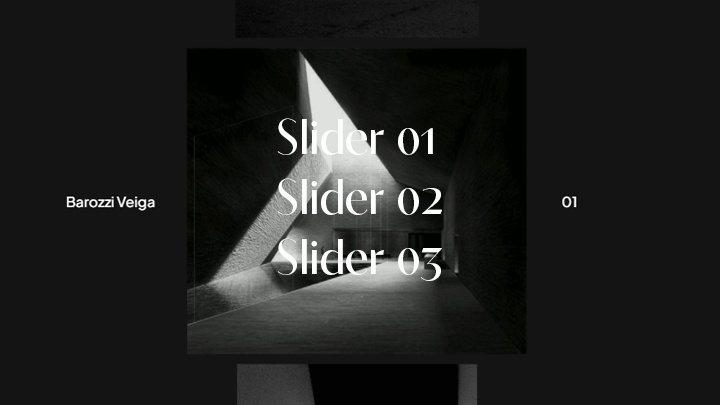
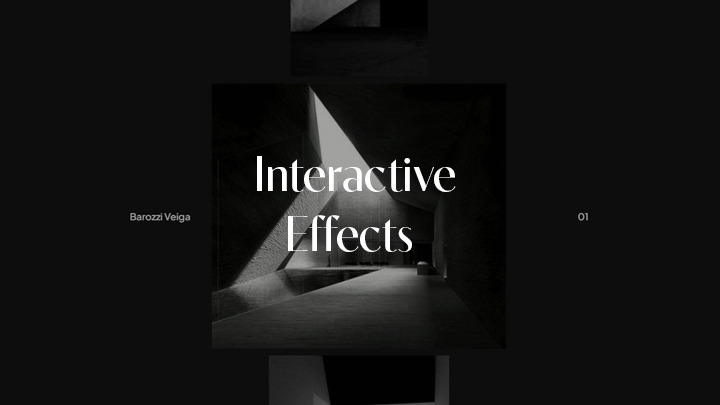
refactor: section을 div로 변경

diff --git a/lab/Image-slider/slider_02.tsx b/lab/Image-slider/slider_02.tsx
@@ -258,7 +258,7 @@ export default function Slider02() {
   }, []);
 
   return (
-    <section>
+    <div>
       <div className="slider02">
         <div className="slider02-wrap">
           <div className="slider02-hero">
@@ -270,7 +270,7 @@ export default function Slider02() {
           </div>
 
           {contents.map((item) => (
-            <section key={item.id} className="slider02-content">
+            <div key={item.id} className="slider02-content">
               {!item.reverse && (
                 <div className="slider02-content-img">
                   <img src={item.image} alt={item.title} />
@@ -287,7 +287,7 @@ export default function Slider02() {
                   <img src={item.image} alt={item.title} />
                 </div>
               )}
-            </section>
+            </div>
           ))}
         </div>
 
@@ -297,6 +297,6 @@ export default function Slider02() {
       </div>
 
       <div id="slider02-container"></div>
-    </section>
+    </div>
   );
 }

diff --git a/lab/Image-slider/slider_03.tsx b/lab/Image-slider/slider_03.tsx
@@ -260,7 +260,7 @@ function animateTextIn(container: Element) {
 }
 
 export default function Slider03() {
-  const sliderRef = useRef<HTMLElement>(null);
+  const sliderRef = useRef<HTMLDivElement>(null);
 
   useEffect(() => {
     gsap.registerPlugin(SplitText);
@@ -393,7 +393,7 @@ export default function Slider03() {
   }, []);
 
   return (
-    <section className="slider03" ref={sliderRef}>
+    <div className="slider03" ref={sliderRef}>
       <div className="slider03-content">
         <div className="slider03-title">
           <p>Blackwater '91</p>
@@ -406,6 +406,6 @@ export default function Slider03() {
           </p>
         </div>
       </div>
-    </section>
+    </div>
   );
 }

diff --git a/app/(main)/blog/[slug]/page.tsx b/app/(main)/blog/[slug]/page.tsx
@@ -54,13 +54,13 @@ export function generateMetadata({ params }) {
 
 export default function Blog({ params }) {
   let post = getBlogPosts().find((post) => post.slug === params.slug);
- // const count = 100;
+  // const count = 100;
   if (!post) {
     notFound();
   }
 
   return (
-    <section className="post">
+    <div className="post">
       <script
         type="application/ld+json"
         suppressHydrationWarning
@@ -99,6 +99,6 @@ export default function Blog({ params }) {
       <article className="post-body">
         <CustomMDX source={post.content} />
       </article>
-    </section>
+    </div>
   );
 }

diff --git a/app/(main)/archive/layout.tsx b/app/(main)/archive/layout.tsx
@@ -40,7 +40,7 @@ export default async function ArchiveLayout({
   );
 
   return (
-    <section className="post-section">
+    <div className="post-section">
       <ul className="post-gallery">
         {items.map(({ slug, title, image, tags, postUrl, year }) => (
           <li key={slug} className="post-item gallery">
@@ -56,6 +56,6 @@ export default async function ArchiveLayout({
         ))}
       </ul>
       {children}
-    </section>
+    </div>
   );
 }

diff --git a/app/components/header.tsx b/app/components/header.tsx
@@ -7,10 +7,10 @@ export function Header() {
     <header className="header">
       <Navbar />
       <nav className="header-nav">
-        <ThemeSwitcher />
-        {/* <Link className="header-nav-link" href="/about">
+        <Link className="header-nav-link" href="/about">
           about
-        </Link> */}
+        </Link>
+        <ThemeSwitcher />
       </nav>
     </header>
   );

diff --git a/lab/Image-slider/slider_01.tsx b/lab/Image-slider/slider_01.tsx
@@ -390,12 +390,12 @@ export default function Slider01() {
   }, []);
 
   return (
-    <section className="slider01">
+    <div className="slider01">
       <div className="slider01-info">
         <p id="slider01-title">Slide Name</p>
         <p id="slider01-count">00</p>
       </div>
       <canvas id="canvas" className="slider01-canvas"></canvas>
-    </section>
+    </div>
   );
 }

diff --git a/lab/Image-slider/style.scss b/lab/Image-slider/style.scss
@@ -14,9 +14,18 @@
     padding: 1rem;
     display: flex;
     flex-direction: column;
-    font-size: 1.75rem;
+    font-size: 1.5rem;
     font-weight: 900;
     color: #ff5544;
+    gap: 10px;
+    align-items: flex-end;
+
+    li {
+      background-color: #000;
+      padding: 5px 15px;
+      text-align: right;
+      width: fit-content;
+    }
   }
 
   &-content {

diff --git a/lab/Image-slider/index.tsx b/lab/Image-slider/index.tsx
@@ -6,7 +6,11 @@ import Slider03 from "./slider_03";
 import "./style.scss";
 import { useState } from "react";
 
-const tabs = ["Slider 01", "Slider 02", "Slider 03"];
+const tabs = [
+  "01 Scroll Distortion Slider",
+  "02 Scroll & Hover Distortion",
+  "03 Ripple Click Slider",
+];
 
 export default function Page() {
   const [activeTab, setActiveTab] = useState(0);

diff --git a/styles/_post.scss b/styles/_post.scss
@@ -4,11 +4,14 @@
 .post-gallery {
   padding: 0;
   overflow: hidden;
-  border-top: 2px dotted var(--color-border);
 
   .post-item {
     padding: var(--spacing-medium) 0 var(--spacing-medium);
     border-bottom: 2px dotted var(--color-border);
+
+    &:last-of-type {
+      border-bottom: none;
+    }
 
     &_list {
       @include mixin.flex-layout(row, nowrap);

diff --git a/app/not-found.tsx b/app/not-found.tsx
@@ -1,10 +1,10 @@
 export default function NotFound() {
   return (
-    <section>
+    <div>
       <h1 className="mb-8 text-2xl font-semibold tracking-tighter">
         404 - Page Not Found
       </h1>
       <p className="mb-4">The page you are looking for does not exist.</p>
-    </section>
-  )
+    </div>
+  );
 }

diff --git a/app/(main)/page.tsx b/app/(main)/page.tsx
@@ -2,10 +2,10 @@ import dynamic from "next/dynamic";
 
 export default function Page() {
   return (
-    <section className="main-content">
+    <div className="main-content">
       <div className="main-content-area">
         <p>{`안녕하세요.`}</p>
       </div>
-    </section>
+    </div>
   );
 }

diff --git a/lab/Image-slider/metadata.ts b/lab/Image-slider/metadata.ts
@@ -1,5 +1,5 @@
 export const metadata = {
-  title: "Image Slider (feat. THree.js)",
+  title: "Interactive Effects (feat. THree.js)",
   description: "스크롤 이미지 슬라이더 모음",
   image: "images/thumbnails/Image-slider-thumbnail.jpg",
   tags: ["Gsap", "Three.js"],
